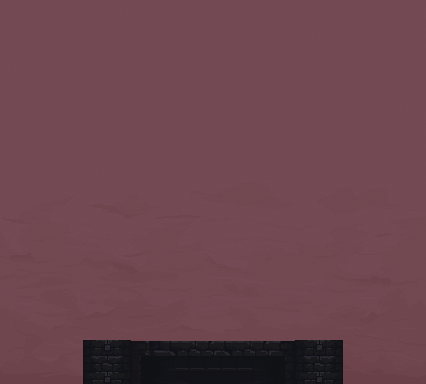
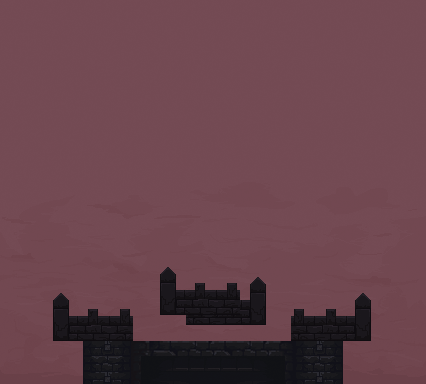
More Preparation for RNG Map

Changed region(s): [[0.3662, 0.6875, 0.6408, 0.8438], [0.6714, 0.75, 0.885, 0.9062], [0.1221, 0.75, 0.3357, 0.9062]]

diff --git a/src/game/Game.java b/src/game/Game.java
@@ -170,10 +170,10 @@ public class Game extends Canvas implements Runnable{
 			//m.mapParser(currentLevel, "./src/game/segments/introDimension.txt");
 			//m.mapParser(currentLevel, "./src/game/segments/segmentA14.txt");
 
-			m.mapParser(currentLevel, "segmentA1");
+			//m.mapParser(currentLevel, "segmentA1");
 
+			m.mapParser(currentLevel, "intersegmentA2up");
 			m.mapParser(currentLevel, "intersegmentA2");
-
 			//m.mapParser(currentLevel, "./src/game/segments/intersegmentA3.txt");
 
 		//	m.mapParser(currentLevel, "./src/game/segments/segmentA1X.txt"); 		// 1 - basic first one (numbers for demo)

diff --git a/src/game/display/Window.java b/src/game/display/Window.java
@@ -28,8 +28,8 @@ import network.GameServer;
 
 public class Window extends Canvas{
 	
-	public static final int WIDTH = 640;
-	public static final int HEIGHT = 480;
+	public static final int WIDTH = 1640;
+	public static final int HEIGHT = 1480;
 	public static final String TITLE = "Engine";
 	public static Rectangle windowRect = new Rectangle(0,0,Game.WIDTH, Game.HEIGHT);
 
